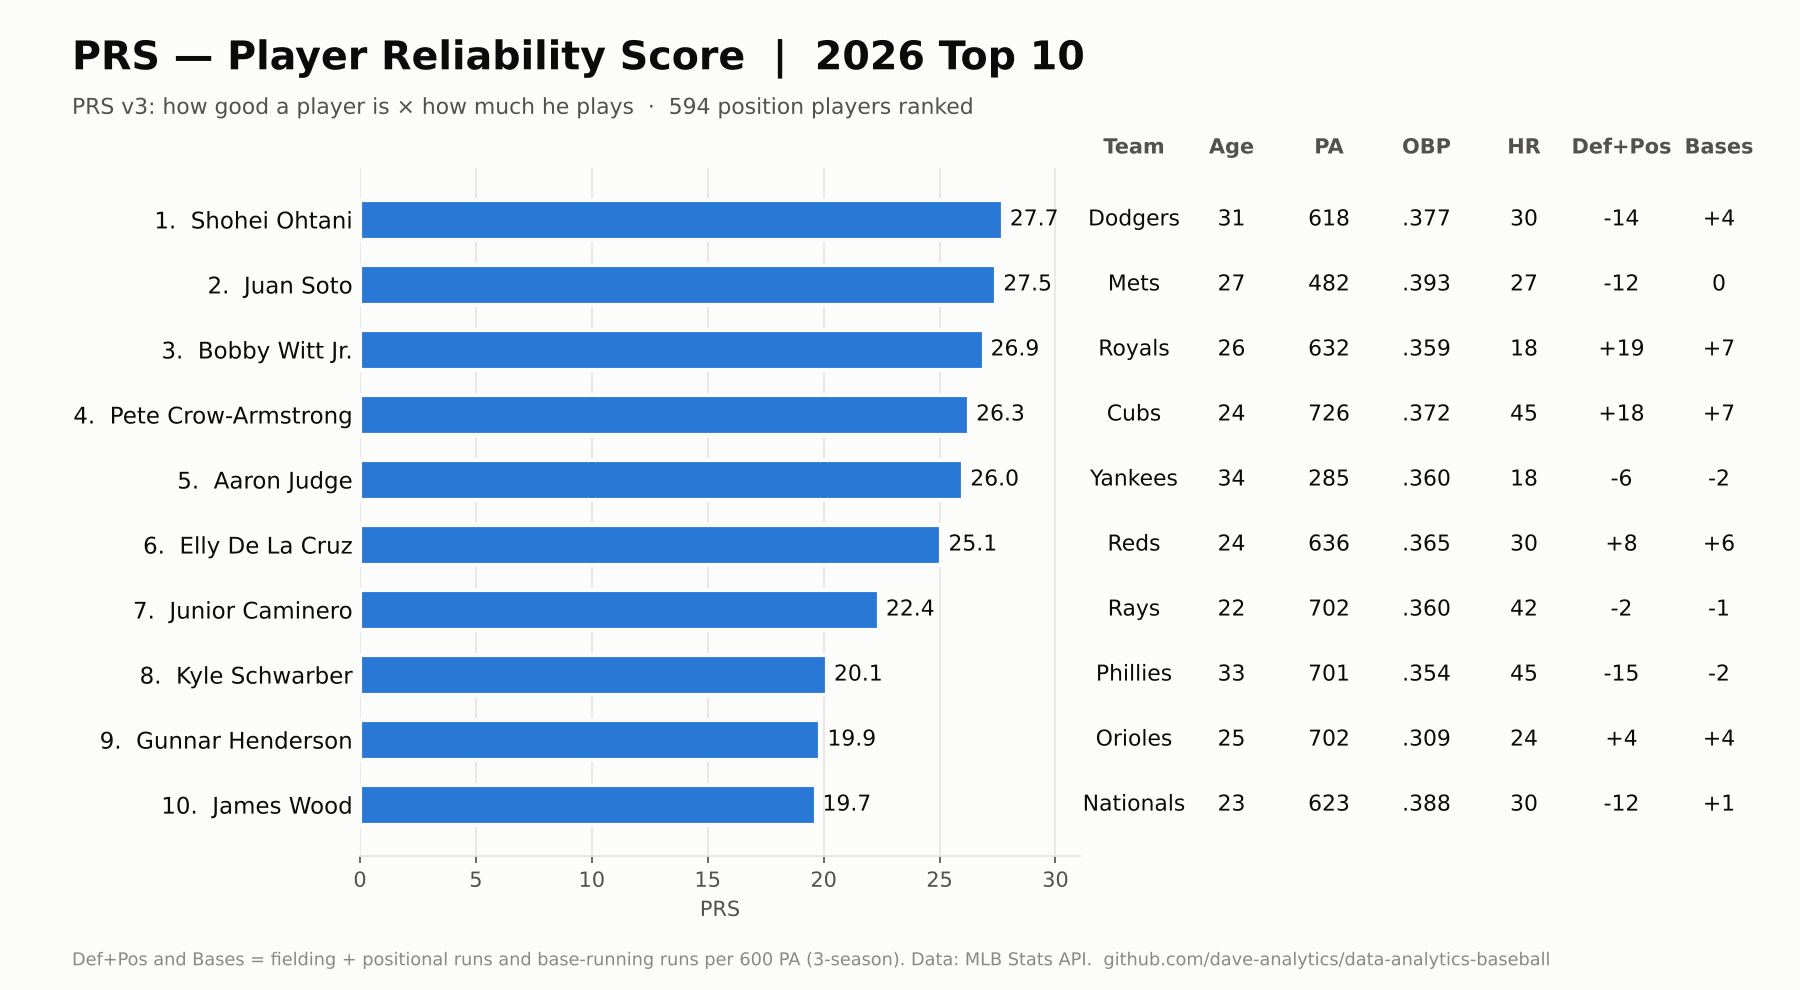
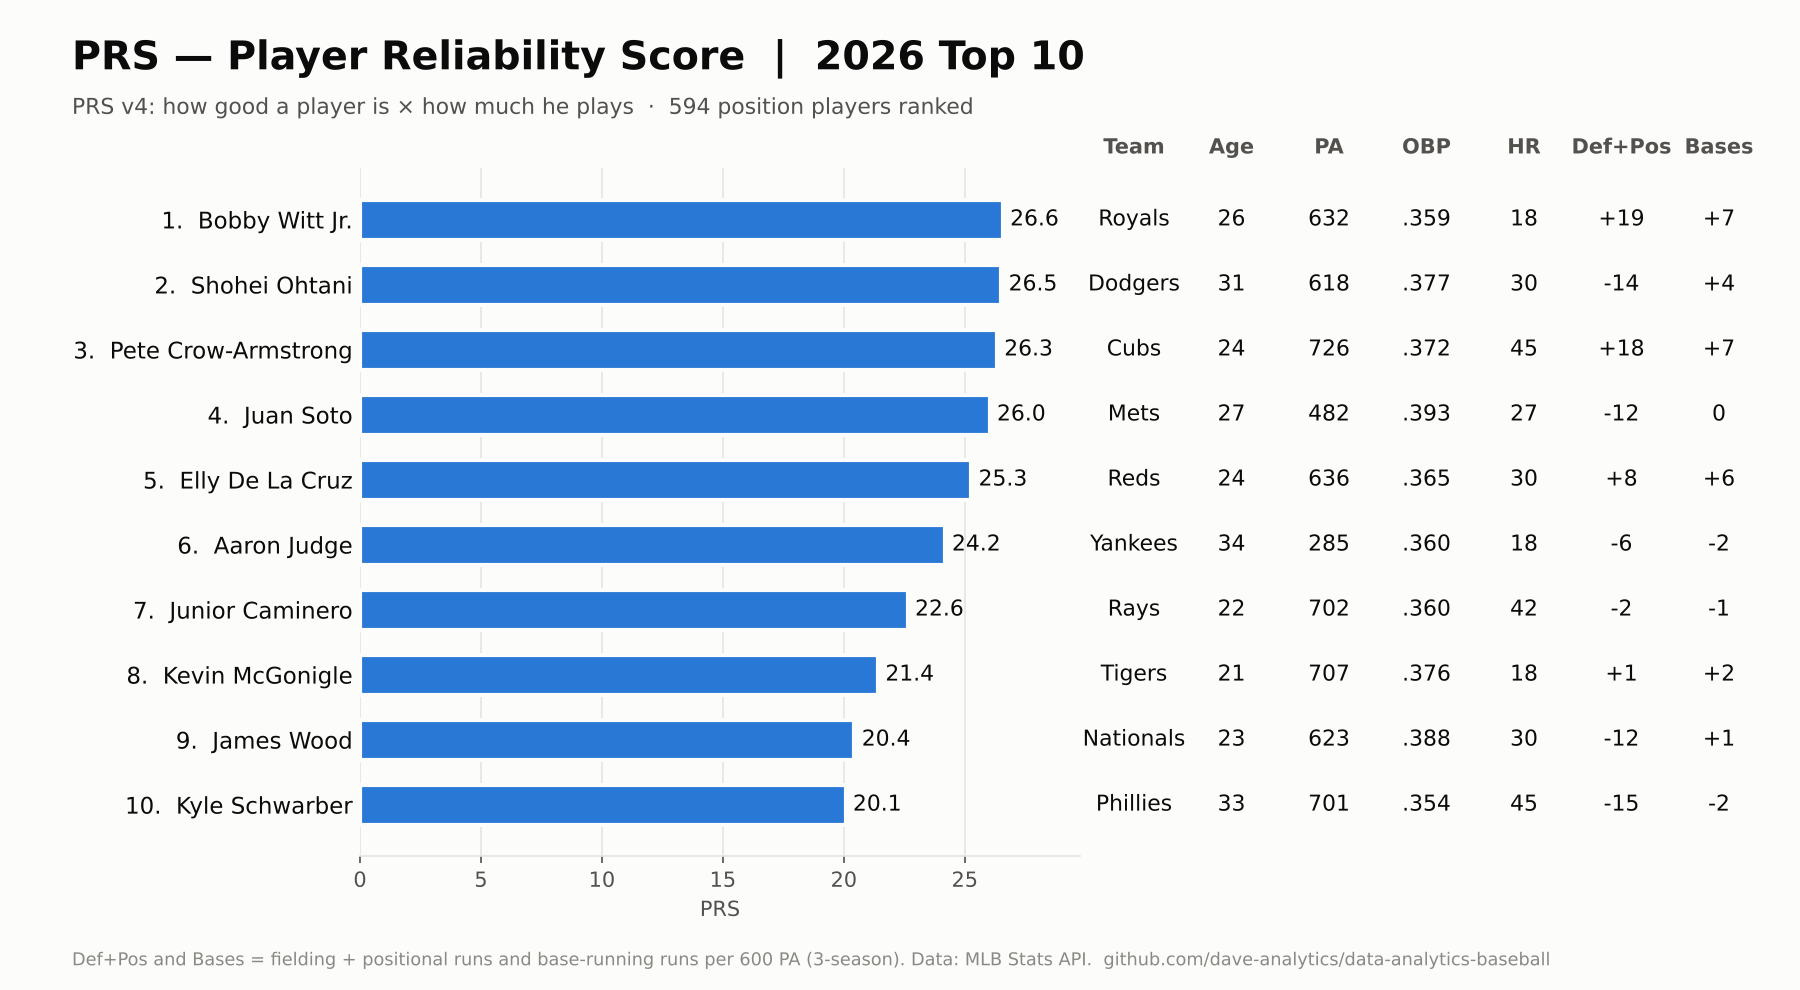
PRS v4: young-player improvements; README, charts, STATUS
- Availability skips pre-debut seasons; asymmetric age curve; translated
  Triple-A/Double-A stats for players 27 and under; 700 PA cap
- Out-of-sample r vs next-season WAR: 0.67 (v3 0.66); players 25 and
  under 0.61 (v3 0.57)
- Update PRS README (method, validation table, findings, sample output),
  main README summary, rebuilt charts with v4, STATUS.md

Claude-Session: https://claude.ai/code/session_015YDihW75QbFBqSqo9e9Z9f

diff --git a/prs/PRS_README.md b/prs/PRS_README.md
@@ -12,8 +12,8 @@ Most fantasy baseball and front office metrics measure peak performance. PRS mea
 
 PRS = **how good he is** × **how much he plays**
 
-1. **Hitting Quality** — on-base ability and power, measured over the last three seasons
-2. **Age Adjustment** — accounts for the natural aging curve of MLB players
+1. **Hitting Quality** — on-base ability and power over the last three seasons, plus minor-league performance for young players
+2. **Age Curve** — young players improve faster than veterans decline
 3. **Base-Running, Defense & Position** — runs added on the bases and in the field, plus credit for playing a harder position
 4. **Availability** — how many plate appearances the player has actually delivered over the last three seasons
 
@@ -22,34 +22,36 @@ The result is a single score that reflects both a player's all-around value and 
 ## Methodology
 
 ### Hitting Quality
-On-base percentage and home run rate from the last three seasons, weighted toward the most recent season. Rates are regressed toward league average, so a hot 150 plate appearances doesn't outrank a proven full season. Each stat is standardized (z-scored) before blending, so every component counts as much as its weight says.
+On-base percentage and home run rate from the last three seasons, weighted toward the most recent season. For players 27 and under, Triple-A and Double-A stats are blended in after translating them down to MLB level, so a prospect with a short MLB track record isn't judged on a handful of big-league at-bats alone. Rates are regressed toward league average, so a hot 150 plate appearances doesn't outrank a proven full season. Each stat is standardized (z-scored) before blending, so every component counts as much as its weight says.
 
-### Age Adjustment
-Players are adjusted by their age during the season (MLB's June 30 convention): younger players are expected to improve, older players to decline.
+### Age Curve
+Players are adjusted by their age during the season (MLB's June 30 convention). The curve is asymmetric: players below their late-20s peak are expected to improve quickly, while veterans decline more gradually.
 
 ### Base-Running, Defense & Position
 Three-season base-running runs, fielding runs, and positional value (a shortstop is worth more than a first baseman with the same bat) from the MLB Stats API, converted to a per-600-plate-appearance rate and standardized. Hitting still carries the most weight.
 
 ### Availability
-Plate appearances over the last three seasons, weighted toward the most recent. A missed season counts as zero — that's the reliability in Player Reliability Score.
+Plate appearances over the last three seasons, weighted toward the most recent. A missed season counts as zero — that's the reliability in Player Reliability Score. Seasons before a player's MLB debut are skipped rather than counted as missed, so rookies aren't penalized for not having been called up yet, and young players get a small bump for the playing time they tend to earn. Projections are capped at a full, healthy season.
 
 ## Validation
 
 PRS is tested the hard way: build it using **only data available before a season**, then check how well it predicts that **next** season's WAR (Wins Above Replacement, Baseball Reference). Each version was tuned on one season and tested on seasons it had never seen.
 
-| PRS built from | Tested against | v1 | v2 (offense only) | **v3 (current)** | Prior-year WAR | Plain OPS |
-|---|---|---|---|---|---|---|
-| 2021–2023 | 2024 WAR | 0.43 | 0.58 | **0.63** *(tuning season)* | — | 0.32 |
-| 2022–2024 | 2025 WAR | 0.46 | 0.57 | **0.66** | 0.66 | 0.35 |
-| 2023–2025 | 2026 WAR* | 0.34 | 0.38 | **0.41** | 0.43 | 0.29 |
+| PRS built from | Tested against | v1 | v2 (offense only) | v3 (+ defense) | **v4 (current)** | Prior-year WAR | Plain OPS |
+|---|---|---|---|---|---|---|---|
+| 2021–2023 | 2024 WAR | 0.43 | 0.58 | 0.63 | **0.65** *(tuning season)* | — | 0.32 |
+| 2022–2024 | 2025 WAR | 0.46 | 0.57 | 0.66 | **0.67** | 0.66 | 0.35 |
+| 2023–2025 | 2026 WAR* | 0.34 | 0.38 | 0.41 | **0.42** | 0.43 | 0.29 |
 
 <sub>Pearson correlation (r), ~440–480 position players per season. \*2026 WAR is a partial-season snapshot (through late May), which lowers every correlation. Prior-year WAR = Baseball Reference WAR from the base season (not available for 2023).</sub>
 
 **Key findings:**
-- PRS v3 predicts next-season WAR at **r ≈ 0.66 on data it was never tuned on** — as well as last season's WAR itself, and better than MLB's own WAR figure (0.64).
+- PRS v4 predicts next-season WAR at **r ≈ 0.67 on data it was never tuned on** — slightly better than last season's WAR itself (0.66) and MLB's own WAR figure (0.64).
+- In practice (2025): the typical miss is under 1 WAR, 87% of players land within 2 WAR, and 18 of PRS's top 25 finished in the actual WAR top 50 (23 in the top 100).
 - **Availability was the biggest single improvement** (about +0.12 r over a rate-only score).
 - **Base-running, defense, and position added about +0.08 r**; each one helps on its own, with positional value contributing the most.
 - The age adjustment adds real predictive value (about +0.05 r).
+- **Young players are the hardest to project.** v4's debut-aware availability, asymmetric age curve, and minor-league stats raised accuracy for players 25 and under from r = 0.57 to 0.61 (2025). The remaining big misses are genuine breakouts — players whose MLB and minor-league numbers gave no hint of a 6–7 WAR season.
 
 ### What changed from v1
 PRS v1 was validated against **same-season** 2026 WAR (r = 0.675), using a partial-season WAR file. That mostly confirmed that PRS and WAR were measuring the same two months of hitting, not that PRS predicts anything. Backtesting showed:
@@ -63,26 +65,26 @@ PRS v1 was validated against **same-season** 2026 WAR (r = 0.675), using a parti
 - **Python 3.14**
 - **pandas** — data manipulation and weighted calculations
 - **requests** — MLB Stats API calls (no authentication required)
-- **MLB Stats API** — season stats, base-running/fielding/positional run values, player bios
+- **MLB Stats API** — MLB and minor-league season stats, base-running/fielding/positional run values, player bios
 - **Baseball Reference** — WAR data for validation
 
-## Sample Output — PRS v3, 2026
+## Sample Output — PRS v4, 2026
 
 ```
 name                 team                    age   PA   OBP   HR   prs
-Shohei Ohtani        Los Angeles Dodgers      31   618  .377   30  27.7
-Juan Soto            New York Mets            27   482  .393   27  27.5
-Bobby Witt Jr.       Kansas City Royals       26   632  .359   18  26.9
+Bobby Witt Jr.       Kansas City Royals       26   632  .359   18  26.6
+Shohei Ohtani        Los Angeles Dodgers      31   618  .377   30  26.5
 Pete Crow-Armstrong  Chicago Cubs             24   726  .372   45  26.3
-Aaron Judge          New York Yankees         34   285  .360   18  26.0
+Juan Soto            New York Mets            27   482  .393   27  26.0
+Elly De La Cruz      Cincinnati Reds          24   636  .365   30  25.3
 ```
 
-## Dashboard (PRS v3)
+## Dashboard (PRS v4)
 
 ### PRS Rankings — 2026 Top 10
 ![PRS Rankings Dashboard](PRS_Rankings_Dashboard.png)
 
-### Out-of-Sample Validation — PRS (2022–24 data) vs. 2025 WAR, r = 0.66
+### Out-of-Sample Validation — PRS (2022–24 data) vs. 2025 WAR, r = 0.67
 ![PRS vs WAR Scatter](PRS_vs_WAR_Scatter.png)
 
 ## What's Next

diff --git a/STATUS.md b/STATUS.md
@@ -2,11 +2,11 @@
 
 ## Current state
 
-Public sports analytics portfolio: PRS (README only; code kept private), Infield Weekly Report (overhauled and verified on live MLB data), Yahoo pitcher tracker, and learning files. READMEs now describe PRS v3 (adds base-running, defense, positional value) and its out-of-sample validation (r ≈ 0.66 vs next-season WAR, matching prior-year WAR). Everything is on PR #1, awaiting merge.
+Public sports analytics portfolio: PRS (README only; code kept private), Infield Weekly Report (overhauled and verified on live MLB data), Yahoo pitcher tracker, and learning files. READMEs now describe PRS v4 (adds young-player handling: debut-aware availability, age curve, minor-league stats) and its out-of-sample validation (r ≈ 0.67 vs next-season WAR, slightly above prior-year WAR). Everything is on PR #1, awaiting merge.
 
 ## Last change
 
-2026-10-06 — Infield report overhaul + live May 4–10 rerun; private PRS backtest and v2→v3 (v1 r 0.46 → v3 r 0.66 on 2024→2025 WAR); rewrote both READMEs around the out-of-sample backtest and rebuilt the PRS chart images for v3.
+2026-10-06 — Infield report overhaul + live May 4–10 rerun; private PRS backtest, v2→v3→v4 (v1 r 0.46 → v4 r 0.67 on 2024→2025 WAR; under-25s 0.57 → 0.61); rewrote both READMEs around the out-of-sample backtest and rebuilt the PRS chart images for v4.
 
 ## Next step
 

diff --git a/README.md b/README.md
@@ -20,10 +20,10 @@ from Python fundamentals through original statistical research.
 ### PRS — Player Reliability Score
 An original MLB statistic measuring reliable all-around value:
 how good a player is × how much he actually plays.
-Combines three-season hitting quality, an age adjustment,
-base-running, defense, positional value, and plate-appearance
-availability. Backtested out of sample: predicts next-season WAR
-at r = 0.66 — matching prior-year WAR itself.
+Combines three-season hitting quality (with minor-league stats
+for young players), an age curve, base-running, defense, positional
+value, and plate-appearance availability. Backtested out of sample:
+predicts next-season WAR at r = 0.67 — slightly better than prior-year WAR.
 
 📁 [/prs](./prs)
 
@@ -51,7 +51,7 @@ Phase 1 and Phase 2 of the analytics roadmap.
 
 ## Dashboard
 
-### PRS Rankings — 2026 Top 10 (v3)
+### PRS Rankings — 2026 Top 10 (v4)
 ![PRS Rankings Dashboard](prs/PRS_Rankings_Dashboard.png)
 
 ### Does PRS Predict Next Season? (built from 2022–24, tested on 2025 WAR)
